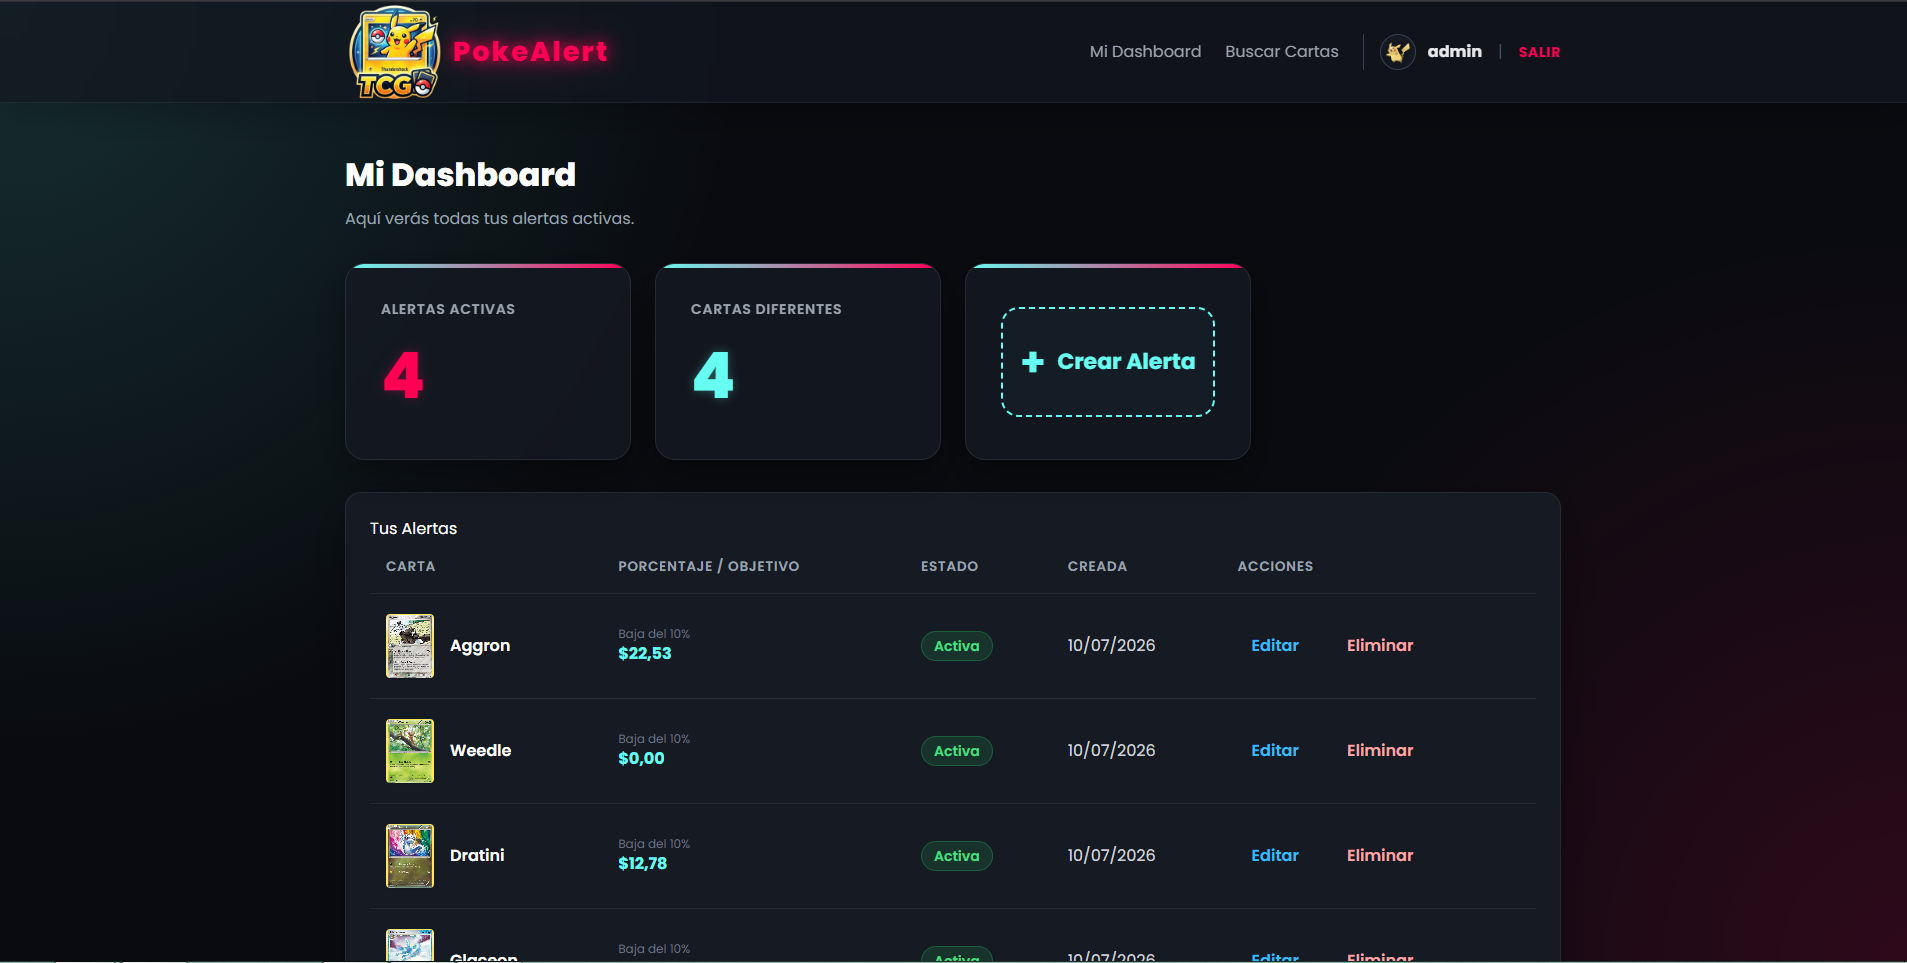
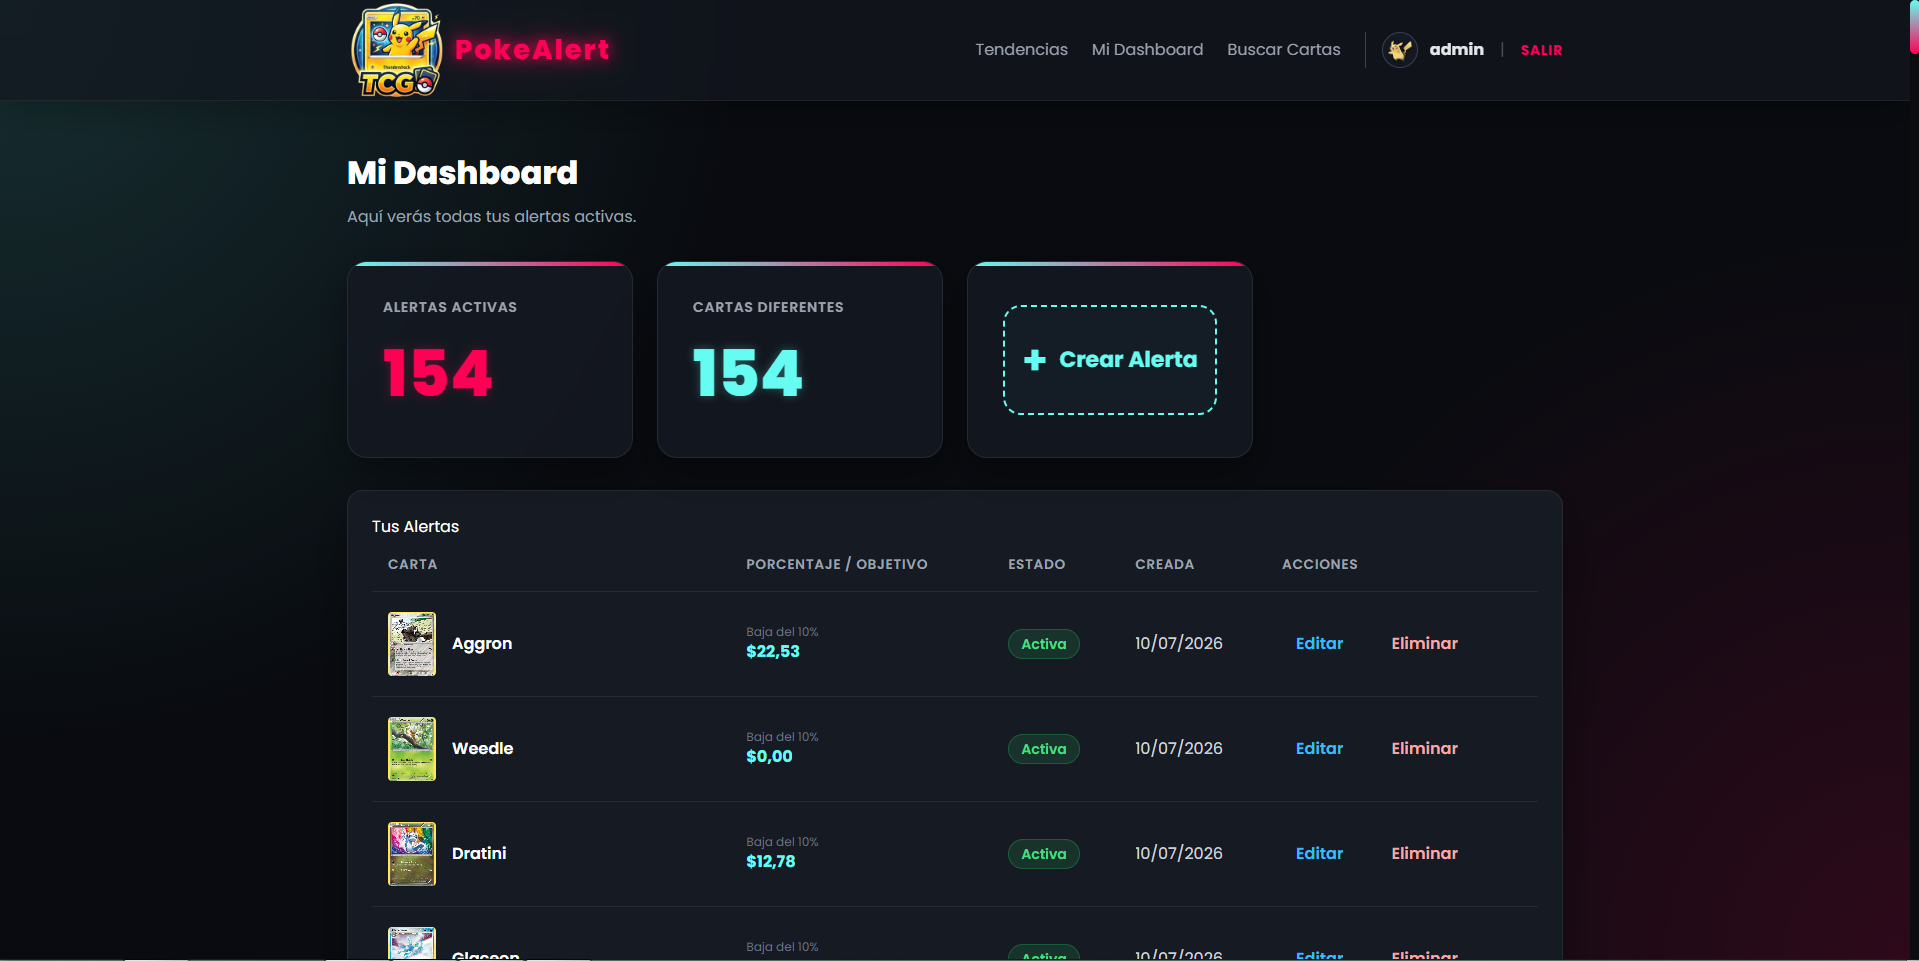
Actualizar Readme

diff --git a/readme.md b/readme.md
@@ -1,3 +1,4 @@
+<!-- README revisado: se recomienda revisar enlaces e imágenes -->
 <div align="center">
 
 # 🔔 PokéAlert
@@ -22,7 +23,7 @@ Plataforma web construida con Django para monitorizar el mercado de cartas del P
 
 ---
 
-## 📖 Tabla de Contenidos
+## 📚 Tabla de Contenidos
 
 - [Capturas](#-capturas)
 - [Características](#-características)
@@ -57,6 +58,9 @@ Plataforma web construida con Django para monitorizar el mercado de cartas del P
 ### Búsqueda de cartas
 ![Búsqueda de cartas](docs/screenshots/search.png)
 
+### Tendencias del mercado
+![Tendencias del mercado](docs/screenshots/tendencias.png)
+
 ---
 
 ## 🌟 Características
@@ -68,6 +72,8 @@ Plataforma web construida con Django para monitorizar el mercado de cartas del P
 ✅ Sistema de alertas configurables por descuento porcentual o precio objetivo.
 
 ✅ Histórico de precios con gráficos interactivos (Chart.js), actualizado también en producción.
+
+✅ Ranking de tendencias de mercado: cartas con mayores subidas y bajadas de precio en los últimos 30 días.
 
 ✅ Sincronización automática con la API de Pokémon TCG.
 
@@ -102,32 +108,29 @@ Plataforma web construida con Django para monitorizar el mercado de cartas del P
 ---
 
 ## 🏗 Arquitectura
-
-```
 Pokémon TCG API
-       │
-       ▼
+│
+▼
 Sincronización de cartas (management commands)
-       │
-       ▼
+│
+▼
 Normalización de datos (Rarity, Supertype, Subtype, Artist, Especie)
-       │
-       ▼
-   ┌─────────────────────┬─────────────────────────────────┐
-   │   Local              │   Producción (Render free)       │
-   │ Celery Beat ──6h──►   │ cron-job.org ──24h──► endpoint   │
-   │ check_pokemon_prices  │ /api/tasks/check-prices/         │
-   └─────────────────────┴─────────────────────────────────┘
-       │
-       ▼
+│
+▼
+┌─────────────────────┬─────────────────────────────────┐
+│   Local              │   Producción (Render free)       │
+│ Celery Beat ──6h──►   │ cron-job.org ──24h──► endpoint   │
+│ check_pokemon_prices  │ /api/tasks/check-prices/         │
+└─────────────────────┴─────────────────────────────────┘
+│
+▼
 PriceHistory / Alertas
-       │
-       ▼
+│
+▼
 Django REST API
-       │
-       ▼
+│
+▼
 Frontend (Tailwind + Chart.js) / Notificaciones por email
-```
 
 El proyecto está organizado en apps Django independientes por dominio: `cards` (catálogo), `alerts` (alertas y notificaciones), `tasks` (tareas periódicas) y `users` (autenticación y perfiles).
 
@@ -249,19 +252,14 @@ Variables de entorno principales (`.env`):
 ### En producción: endpoints HTTP + cron externo
 
 El plan gratuito de Render no permite mantener un worker ni un scheduler de Celery corriendo en segundo plano. Para resolverlo sin salir del free tier, ambas tareas están expuestas como endpoints HTTP que las ejecutan de forma síncrona, protegidos por token:
-
-```
 GET /api/tasks/check-prices/?token=<CRON_SECRET_TOKEN>
 GET /api/tasks/update-pokedex/?token=<CRON_SECRET_TOKEN>
-```
 
 Un cronjob gratuito en **cron-job.org** llama a `check-prices` una vez al día, disparando la actualización de precios y del histórico en producción sin necesidad de Celery Worker/Beat activos. El propio código evita duplicar entradas de histórico si la tarea se ejecutara más de una vez el mismo día.
 
 ---
 
 ## 🔌 API REST
-
-```
 GET    /api/cards/                     # Listar cartas (con filtros)
 GET    /api/cards/{id}/                # Detalle de carta
 GET    /api/cards/{id}/price-history/  # Histórico de precios
@@ -272,7 +270,6 @@ DELETE /api/alerts/{id}/               # Eliminar alerta
 GET    /api/search/suggestions/        # Autocompletado de búsqueda
 GET    /api/tasks/check-prices/        # Dispara check_pokemon_prices (requiere token)
 GET    /api/tasks/update-pokedex/      # Dispara actualizar_pokedex_automatica (requiere token)
-```
 
 Documentación interactiva (Swagger UI): `http://localhost:8000/api/docs/`
 
@@ -303,22 +300,27 @@ Todos los módulos, clases y funciones siguen el formato de docstrings de Google
 ---
 
 ## 📁 Estructura del Proyecto
-
-```
 pokealert/
 ├── cards/                     # Catálogo de cartas
 │   ├── models.py              # Card, Rarity, Supertype, Subtype, Artist...
-│   ├── views.py                
+│   ├── views.py
 │   ├── serializers.py
 │   ├── services/
 │   │   ├── pokemontcg_service.py
 │   │   ├── pricing.py
-│   │   └── card_formatter.py
+│   │   ├── pricing_trends.py
+│   │   ├── text_utils.py
+│   │   ├── catalog_service.py
+│   │   ├── card_service.py
+│   │   ├── card_formatter.py
+│   │   ├── card_detail_service.py
+│   │   └── search_service.py
 │   └── management/commands/
 │       └── descargar_cartas_json.py
 ├── alerts/                    # Alertas de precio
 │   ├── models.py              # PriceAlert, PriceHistory
 │   ├── serializers.py
+│   ├── services.py
 │   └── views.py
 ├── tasks/                     # Tareas periódicas
 │   ├── tasks.py                # check_pokemon_prices, actualizar_pokedex_automatica
@@ -345,7 +347,6 @@ pokealert/
 ├── pyproject.toml
 ├── .flake8
 └── validate.py
-```
 
 ---
 
@@ -401,7 +402,7 @@ python manage.py descargar_cartas_json
 - [x] Traducción ES→EN de nombres de cartas basada en Wikidex
 - [x] Autocompletado con soporte de prefijos en español
 - [x] Actualización de precios en producción sin Celery Worker/Beat (endpoints HTTP + cron-job.org)
-- [ ] Dashboard con métricas agregadas de mercado
+- [x] Dashboard con métricas agregadas de mercado
 - [ ] Notificaciones push además de email
 - [ ] Documentación de API ampliada (OpenAPI)
 